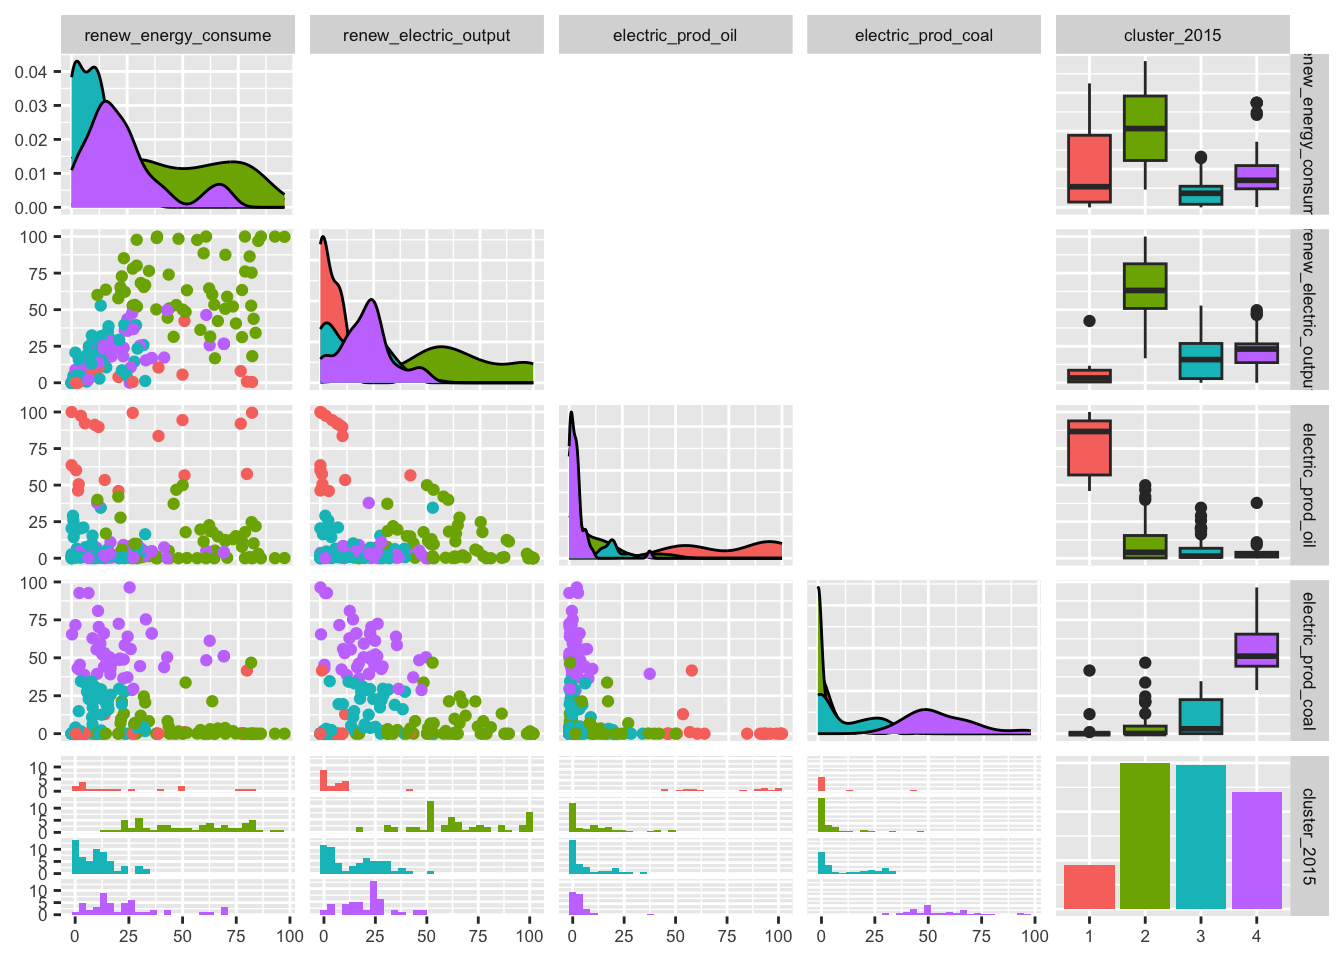
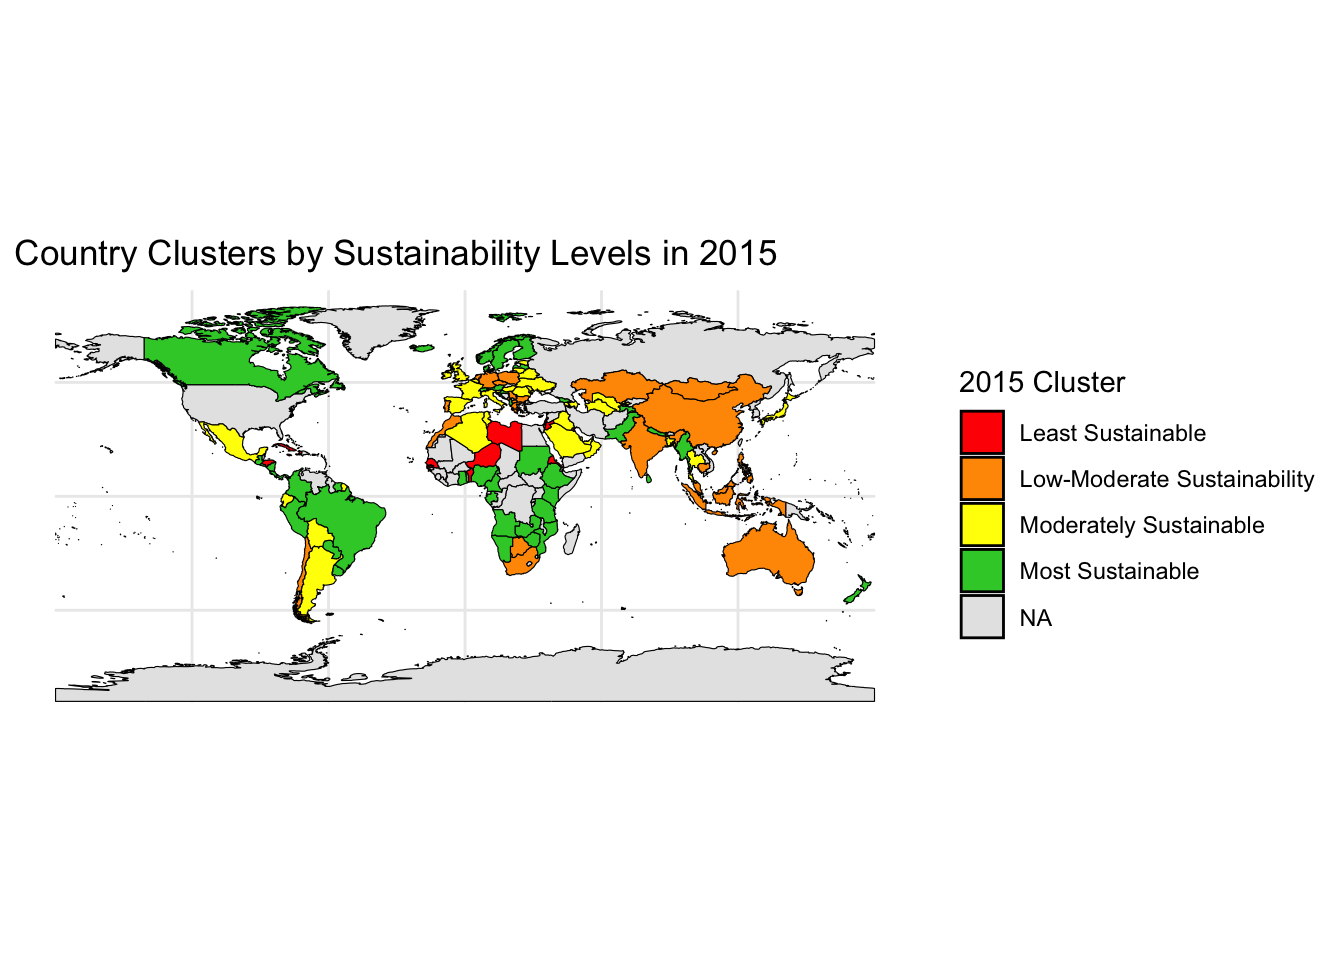
upd

diff --git a/docs/sustainability-clusters.html b/docs/sustainability-clusters.html
@@ -9,7 +9,7 @@
 <meta name="author" content="Eglah Belizor">
 <meta name="author" content="Shamil Khusnullin">
 <meta name="author" content="Mariia Koval">
-<meta name="dcterms.date" content="2025-05-04">
+<meta name="dcterms.date" content="2025-05-05">
 
 <title>Analyzing Sustainability Indicators Amidst Climate Change – Environmental Indicators: Past, Present, Future</title>
 <style>
@@ -166,7 +166,7 @@ ul.task-list li input[type="checkbox"] {
     <div>
     <div class="quarto-title-meta-heading">Last updated</div>
     <div class="quarto-title-meta-contents">
-      <p class="date">May 4, 2025</p>
+      <p class="date">May 5, 2025</p>
     </div>
   </div>
   
@@ -187,7 +187,7 @@ ul.task-list li input[type="checkbox"] {
 <li><p>Electricity production from oil sources (% of total)</p></li>
 <li><p>Electricity production from coal sources (% of total)</p></li>
 </ul>
-<p>(See <a href="#appendix">Appendix</a> to see why we’ve chose k=4 for clustering).</p>
+<p>(See <a href="#appendix">Appendix</a> to see why we’ve chosen k=4 for clustering).</p>
 <p>After the process of standardizing indicators and k-means clustering for the years 1990 and 2015 was complete, the table we created allowed us to take a glimpse at the changes in cluster group assignments for the first 10 countries and regions in this newly formed dataset. At first glance, you can see the region of ‘Africa Western and Central’ changed groups from 3 to 2, while the country of Argentina moved from 4 to 3.</p>
 <div class="cell">
 <div class="cell-output-display">
@@ -1287,7 +1287,7 @@ ul.task-list li input[type="checkbox"] {
 <div class="cell-output-display">
 <div>
 <figure class="figure">
-<p><img src="sustainability-clusters_files/figure-html/unnamed-chunk-4-1.png" class="img-fluid figure-img" width="672"></p>
+<p><img src="sustainability-clusters_files/figure-html/unnamed-chunk-2-1.png" class="img-fluid figure-img" width="672"></p>
 </figure>
 </div>
 </div>
@@ -1298,7 +1298,7 @@ ul.task-list li input[type="checkbox"] {
 <div class="cell-output-display">
 <div>
 <figure class="figure">
-<p><img src="sustainability-clusters_files/figure-html/unnamed-chunk-5-1.png" class="img-fluid figure-img" width="672"></p>
+<p><img src="sustainability-clusters_files/figure-html/unnamed-chunk-3-1.png" class="img-fluid figure-img" width="672"></p>
 </figure>
 </div>
 </div>
@@ -1369,7 +1369,7 @@ ul.task-list li input[type="checkbox"] {
 <div class="cell-output-display">
 <div>
 <figure class="figure">
-<p><img src="sustainability-clusters_files/figure-html/unnamed-chunk-6-1.png" class="img-fluid figure-img" width="672"></p>
+<p><img src="sustainability-clusters_files/figure-html/unnamed-chunk-4-1.png" class="img-fluid figure-img" width="672"></p>
 </figure>
 </div>
 </div>
@@ -1380,7 +1380,7 @@ ul.task-list li input[type="checkbox"] {
 <div class="cell-output-display">
 <div>
 <figure class="figure">
-<p><img src="sustainability-clusters_files/figure-html/unnamed-chunk-7-1.png" class="img-fluid figure-img" width="672"></p>
+<p><img src="sustainability-clusters_files/figure-html/unnamed-chunk-5-1.png" class="img-fluid figure-img" width="672"></p>
 </figure>
 </div>
 </div>
